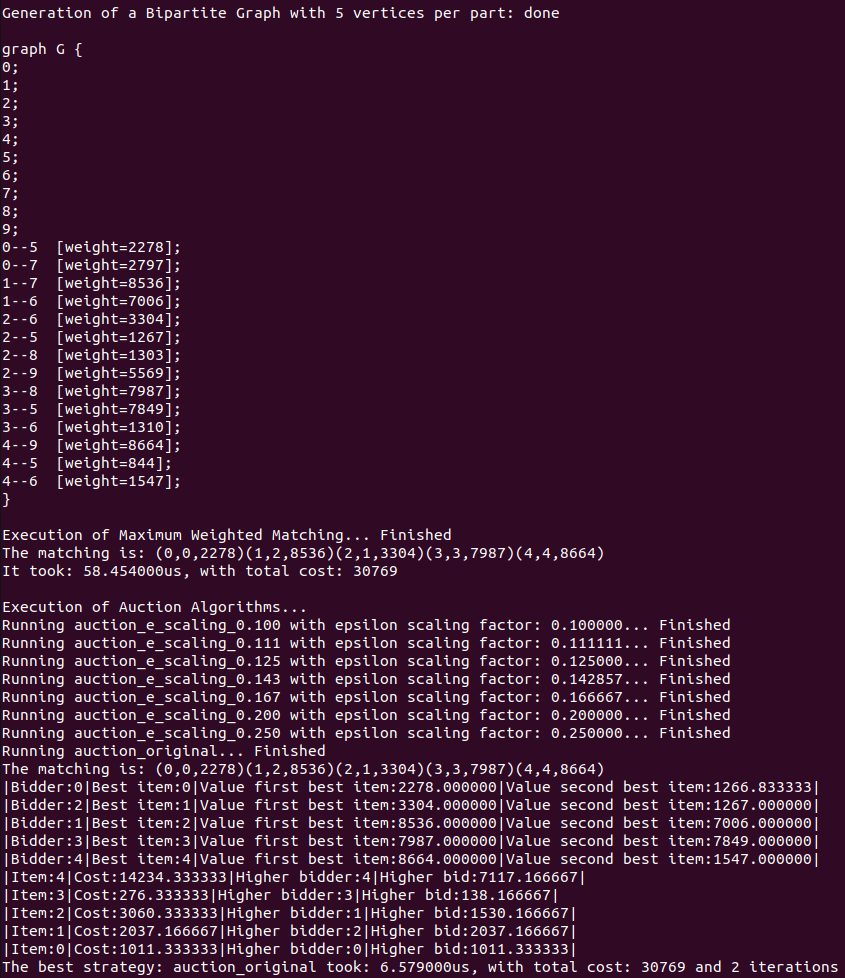
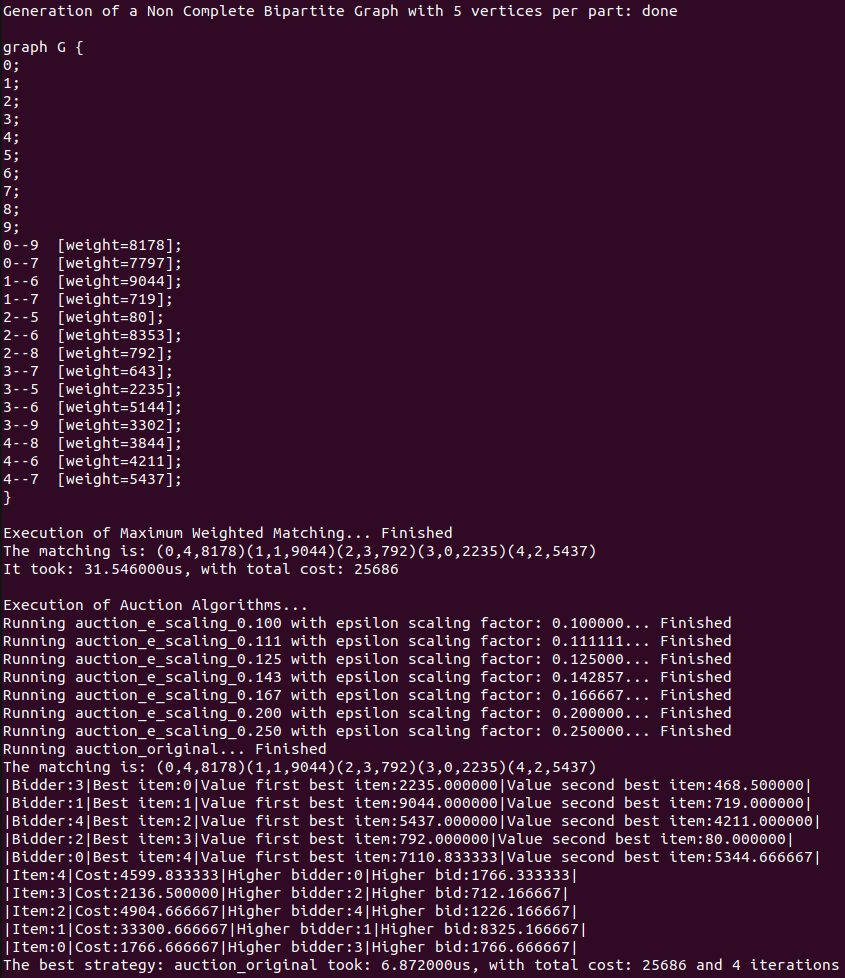
fix comments plus screenshots

Changed region(s): [[0.0, 0.0, 1.0, 1.0]]

diff --git a/Application/src/Auction.cpp b/Application/src/Auction.cpp
@@ -45,14 +45,14 @@ std::string perform_au(const Graph& graph, std::map<std::string, RunAuction>& au
     std::tuple<std::string, Weight, Duration> best ("none", 0, static_cast<Duration>(0)); // Temporal variable to store the best algorithm attributes
 
     
-    for (auto& run : auction_results) // For every elelmtn in the map
+    for (auto& run : auction_results) // For every element of the map
     {
         if (run.first != "none")
         {
-            run_auction(graph, verbose, run.first, run.second); // RUn the specific Auction Algorithm
+            run_auction(graph, verbose, run.first, run.second); // Run the specific Auction Algorithm
 
             // If the performance was better than the previous one update the tuple
-            if ((run.second.cost > std::get<1>(best)) || (run.second.cost == std::get<1>(best) && run.second.elapsed < std::get<2>(best)))
+            if ((run.second.cost > std::get<1>(best)) || (run.second.cost == std::get<1>(best) && run.second.elapsed <std::get<2>(best)))
             {
                 std::get<0>(best) = run.first;
                 std::get<1>(best) = run.second.cost;
@@ -63,7 +63,7 @@ std::string perform_au(const Graph& graph, std::map<std::string, RunAuction>& au
     
     std::string best_method_name = std::get<0>(best); // Get the name of the best Auction Algorithm
 	
-    if (auction_results.at(best_method_name).cost == static_cast<Weight>(-1)) // If the best algorithm could not solve the assignment problem update the 'none' elemnt of the map
+    if (auction_results.at(best_method_name).cost == static_cast<Weight>(-1)) // If the best algorithm could not solve the assignment problem update the 'none' element of the map
     {
         std::cout << "No matching found\n";
         if (verbose) auction_results.at(best_method_name).auction.printProprieties();

diff --git a/Application/src/Main.cpp b/Application/src/Main.cpp
@@ -17,7 +17,7 @@ int main(int argc, const char* argv[])
 
 	get_input(min, max, verbose, fully_connected); // Obtaining the user inputs
 
-	// Create the .csv file and writhe the first row
+	// Create the .csv file and write the first row composed by the column names
 	stream.open("../data/results.csv", std::ios::out | std::ios::app);
 	stream << "Edges_per_part,Execution_Time_MWM,Seconds_MWM,Total_Cost_MWM,";
 	for(int& sf : scaling_factors)
@@ -27,12 +27,11 @@ int main(int argc, const char* argv[])
 	
 	for (int n = min; n <= max; ++n)
 	{
-		std::cout << "\n\n\nGeneration of a Bipartite Graph with " << n << " vertices per part: ";
 
 		Weight total_cost_mwm = 0;
 		Duration elapsed_mwm;
 		
-		// Map for temporal storing of the Auction Algorithms run
+		// Map for temporal storing of the Auction Algorithms runs
 		std::map<std::string, RunAuction> auction_results;
 		auction_results.insert(std::pair<std::string, RunAuction>("auction_original", RunAuction(n)));
 
@@ -46,6 +45,9 @@ int main(int argc, const char* argv[])
 		}
 			
 		auction_results.insert(std::pair<std::string, RunAuction>("none", RunAuction(0)));
+
+		if (fully_connected) std::cout << "\n\n\nGeneration of a Complete Bipartite Graph with " << n << " vertices per part: ";
+		else std::cout << "\n\n\nGeneration of a Non Complete Bipartite Graph with " << n << " vertices per part: ";
 
 		Graph graph = generateData(n, fully_connected); // Generation of a random bipartite graph
 

diff --git a/Application/include/AuctionAlgorithm.hpp b/Application/include/AuctionAlgorithm.hpp
@@ -90,7 +90,7 @@ inline void Auction<Graph, Type>::reset()
 }
 
 
-// Function taht return the weighted sum of the Assignment Problem solution
+// Function that return the weighted sum of the Assignment Problem solution
 template<typename Graph, typename Type>
 inline Type Auction<Graph, Type>::getTotalCost(const Graph& graph)
 {
@@ -131,7 +131,7 @@ inline void Auction<Graph, Type>::printProprieties()
 }
 
 
-// Function that execute a single execution cicle of th Auction Algorithm
+// Function that execute a single execution cicle of the Auction Algorithm
 template<typename Graph, typename Type>
 void Auction<Graph, Type>::auctionRound(const Graph& graph, const double& eps, const vertex_idMap<Graph>& V_Map, bool& err)
 {
@@ -230,7 +230,7 @@ void Auction<Graph, Type>::auctionRound(const Graph& graph, const double& eps, c
 }
 
 
-// Function for the original Auction Algorithm
+// Original Auction Algorithm
 template<typename Graph, typename Type>
 void Auction<Graph, Type>::original_auction(const Graph& graph, std::vector<int>& ass)
 {
@@ -256,7 +256,7 @@ void Auction<Graph, Type>::original_auction(const Graph& graph, std::vector<int>
 }
 
 
-// Function for the e-scaling variation of the Auction Algorithm
+// e-scaling variation of the Auction Algorithm
 template<typename Graph, typename Type>
 void Auction<Graph, Type>::e_scaling_auction(const Graph& graph, std::vector<int>& ass, const double& scaling_factor)
 {

diff --git a/Application/include/Utils.hpp b/Application/include/Utils.hpp
@@ -19,13 +19,13 @@ inline void check_empty_file()
 }
 
 
-// Function that obtain the inputs user
+// Function that obtain the user inputs
 void get_input(int& min, int& max, int& verbose, int& fully_connected)
 {
 	std::cout << "-------- MAXIMUM WEIGHTED MATCHING - AUCTION ALGORITHM BECHMARK --------\n\n";
-	std::cout << "Do you want to active VERBOSE mode? (1/0) ";
+	std::cout << "Do you want to activate VERBOSE mode? (1/0) ";
 	std::cin >> verbose;
-	std::cout << "On what type of bipartite graph would you like to work with, compelte (1) or non complete (0): ";
+	std::cout << "On what type of bipartite graph would you like to work with, complete (1) or non complete (0): ";
 	std::cin >> fully_connected;
 	std::cout << "Please specify the starting number of vertices per part: ";
 	std::cin >> min;

diff --git a/Application/src/BipartiteGraph.cpp b/Application/src/BipartiteGraph.cpp
@@ -1,7 +1,7 @@
 #include "../include/BipartiteGraph.h"
 
 
-// Function to generate a random bipartite graph, complete or non in depends on the user input
+// Function to generate a random bipartite graph, complete or non complete, depending on the user input
 Graph generateData(int N, const int& fully_connected)
 {
 	Graph g;

diff --git a/Application/include/RunAuction.hpp b/Application/include/RunAuction.hpp
@@ -3,7 +3,7 @@
 
 #include "AuctionAlgorithm.hpp"
 
-// Class used to store the a run of a Auction Algorithm (Original or e-Scaling)
+// Class used to store the a run of a Auction Algorithm (Original version or e-Scaling versions)
 class RunAuction
 {
 public:
